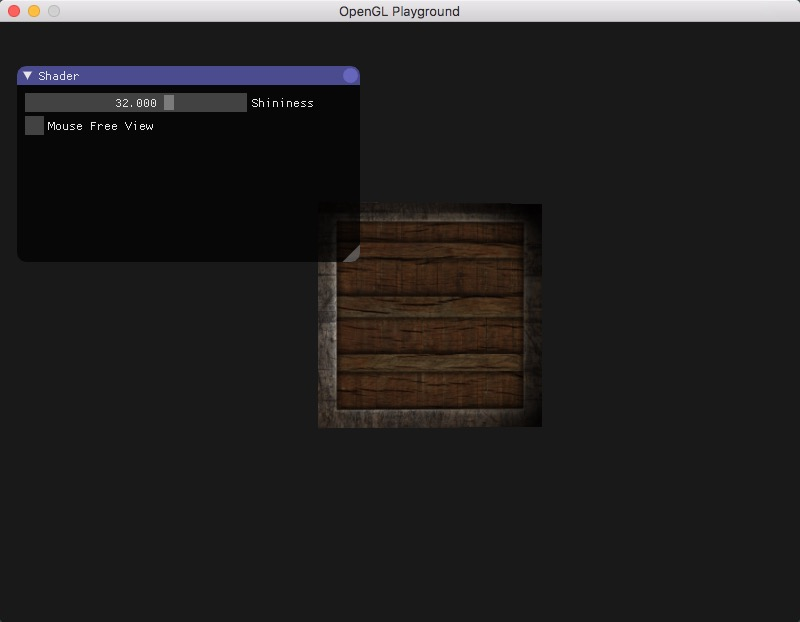
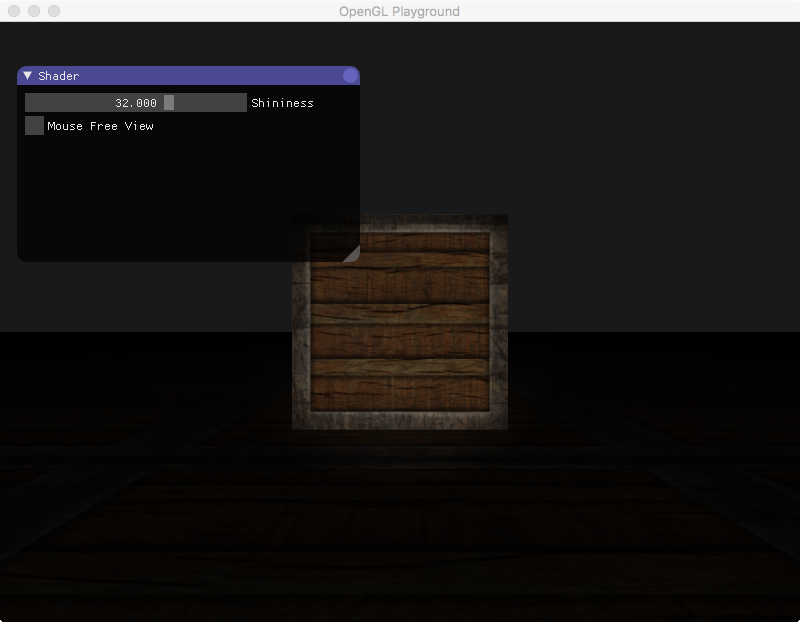
代码调整

diff --git a/Src/main.cpp b/Src/main.cpp
@@ -47,6 +47,10 @@ glm::vec3 lightPos(1.2f, 1.0f, 2.0f);
 GLfloat deltaTime = 0.0f; // Time between current frame and last frame
 GLfloat lastFrame = 0.0f; // Time of last frame
 
+// meshes
+unsigned int planeVAO;
+
+
 // The MAIN function, from here we start the application and run the game loop
 int main() {
   // Init GLFW
@@ -86,6 +90,7 @@ int main() {
   // Build and compile our shader program
   Shader lightingShader("lighting.vs", "lighting.frag");
   Shader lampShader("lamp.vs", "lamp.frag");
+
 
   // Set up vertex data (and buffer(s)) and attribute pointers
   GLfloat vertices[] = {
@@ -165,6 +170,35 @@ int main() {
   glEnableVertexAttribArray(0);
   glBindVertexArray(0);
 
+
+  // set up vertex data (and buffer(s)) and configure vertex attributes
+  // ------------------------------------------------------------------
+  float planeVertices[] = {
+    // positions            // normals         // texcoords
+    25.0f, -0.5f,  25.0f,  0.0f, 1.0f, 0.0f,  25.0f,  0.0f,
+    -25.0f, -0.5f,  25.0f,  0.0f, 1.0f, 0.0f,   0.0f,  0.0f,
+    -25.0f, -0.5f, -25.0f,  0.0f, 1.0f, 0.0f,   0.0f, 25.0f,
+
+    25.0f, -0.5f,  25.0f,  0.0f, 1.0f, 0.0f,  25.0f,  0.0f,
+    -25.0f, -0.5f, -25.0f,  0.0f, 1.0f, 0.0f,   0.0f, 25.0f,
+    25.0f, -0.5f, -25.0f,  0.0f, 1.0f, 0.0f,  25.0f, 25.0f
+  };
+
+  // plane VAO
+  unsigned int planeVBO;
+  glGenVertexArrays(1, &planeVAO);
+  glGenBuffers(1, &planeVBO);
+  glBindVertexArray(planeVAO);
+  glBindBuffer(GL_ARRAY_BUFFER, planeVBO);
+  glBufferData(GL_ARRAY_BUFFER, sizeof(planeVertices), planeVertices, GL_STATIC_DRAW);
+  glEnableVertexAttribArray(0);
+  glVertexAttribPointer(0, 3, GL_FLOAT, GL_FALSE, 8 * sizeof(float), (void*)0);
+  glEnableVertexAttribArray(1);
+  glVertexAttribPointer(1, 3, GL_FLOAT, GL_FALSE, 8 * sizeof(float), (void*)(3 * sizeof(float)));
+  glEnableVertexAttribArray(2);
+  glVertexAttribPointer(2, 2, GL_FLOAT, GL_FALSE, 8 * sizeof(float), (void*)(6 * sizeof(float)));
+  glBindVertexArray(0);
+
   // Load textures
   GLuint diffuseMap, specularMap, emissionMap;
   glGenTextures(1, &diffuseMap);
@@ -207,6 +241,12 @@ int main() {
               0);
   glUniform1i(glGetUniformLocation(lightingShader.Program, "material.specular"),
               1);
+
+  lampShader.Use();
+  glUniform1i(glGetUniformLocation(lampShader.Program, "texture1"),
+              1);
+  glUniform1i(glGetUniformLocation(lampShader.Program, "texture2"),
+              0);
 
 
   //Set Imgui
@@ -309,9 +349,13 @@ int main() {
     glActiveTexture(GL_TEXTURE1);
     glBindTexture(GL_TEXTURE_2D, specularMap);
 
+
+    // Draw floor
+    glm::mat4 model;
+   
+
     // Draw 10 containers with the same VAO and VBO information; only their
     // world space coordinates differ
-    glm::mat4 model;
     glBindVertexArray(containerVAO);
 
     int ii = 0;
@@ -321,9 +365,27 @@ int main() {
       GLfloat angle = 20.0f * ii++;
       model = glm::rotate(model, angle, glm::vec3(1.0f, 0.3f, 0.5f));
       glUniformMatrix4fv(modelLoc, 1, GL_FALSE, glm::value_ptr(model));
-
       glDrawArrays(GL_TRIANGLES, 0, 36);
     }
+
+
+    
+
+    //Draw the floor
+    lampShader.Use();
+    // Get the uniform locations
+    modelLoc = glGetUniformLocation(lampShader.Program, "model");
+    viewLoc = glGetUniformLocation(lampShader.Program, "view");
+    projLoc = glGetUniformLocation(lampShader.Program, "projection");
+
+    glUniformMatrix4fv(viewLoc, 1, GL_FALSE, glm::value_ptr(view));
+    glUniformMatrix4fv(projLoc, 1, GL_FALSE, glm::value_ptr(projection));
+
+    model = glm::mat4();
+    glUniformMatrix4fv(modelLoc, 1, GL_FALSE, glm::value_ptr(model));
+
+    glBindVertexArray(planeVAO);
+    glDrawArrays(GL_TRIANGLES, 0, 6);
 
     glBindVertexArray(0);
 

diff --git a/Src/imgui_impl_glfw_gl3.h b/Src/imgui_impl_glfw_gl3.h
@@ -1,25 +1,38 @@
 // ImGui GLFW binding with OpenGL3 + shaders
-// In this binding, ImTextureID is used to store an OpenGL 'GLuint' texture identifier. Read the FAQ about ImTextureID in imgui.cpp.
+// In this binding, ImTextureID is used to store an OpenGL 'GLuint' texture
+// identifier. Read the FAQ about ImTextureID in imgui.cpp.
 
-// You can copy and use unmodified imgui_impl_* files in your project. See main.cpp for an example of using this.
-// If you use this binding you'll need to call 4 functions: ImGui_ImplXXXX_Init(), ImGui_ImplXXXX_NewFrame(), ImGui::Render() and ImGui_ImplXXXX_Shutdown().
-// If you are new to ImGui, see examples/README.txt and documentation at the top of imgui.cpp.
+// You can copy and use unmodified imgui_impl_* files in your project. See
+// main.cpp for an example of using this.
+// If you use this binding you'll need to call 4 functions:
+// ImGui_ImplXXXX_Init(), ImGui_ImplXXXX_NewFrame(), ImGui::Render() and
+// ImGui_ImplXXXX_Shutdown().
+// If you are new to ImGui, see examples/README.txt and documentation at the top
+// of imgui.cpp.
 // https://github.com/ocornut/imgui
 
 struct GLFWwindow;
 
-IMGUI_API bool        ImGui_ImplGlfwGL3_Init(GLFWwindow* window, bool install_callbacks);
-IMGUI_API void        ImGui_ImplGlfwGL3_Shutdown();
-IMGUI_API void        ImGui_ImplGlfwGL3_NewFrame();
+IMGUI_API bool ImGui_ImplGlfwGL3_Init(GLFWwindow *window,
+                                      bool install_callbacks);
+IMGUI_API void ImGui_ImplGlfwGL3_Shutdown();
+IMGUI_API void ImGui_ImplGlfwGL3_NewFrame();
 
 // Use if you want to reset your rendering device without losing ImGui state.
-IMGUI_API void        ImGui_ImplGlfwGL3_InvalidateDeviceObjects();
-IMGUI_API bool        ImGui_ImplGlfwGL3_CreateDeviceObjects();
+IMGUI_API void ImGui_ImplGlfwGL3_InvalidateDeviceObjects();
+IMGUI_API bool ImGui_ImplGlfwGL3_CreateDeviceObjects();
 
-// GLFW callbacks (installed by default if you enable 'install_callbacks' during initialization)
+// GLFW callbacks (installed by default if you enable 'install_callbacks' during
+// initialization)
 // Provided here if you want to chain callbacks.
 // You can also handle inputs yourself and use those as a reference.
-IMGUI_API void        ImGui_ImplGlfwGL3_MouseButtonCallback(GLFWwindow* window, int button, int action, int mods);
-IMGUI_API void        ImGui_ImplGlfwGL3_ScrollCallback(GLFWwindow* window, double xoffset, double yoffset);
-IMGUI_API void        ImGui_ImplGlfwGL3_KeyCallback(GLFWwindow* window, int key, int scancode, int action, int mods);
-IMGUI_API void        ImGui_ImplGlfwGL3_CharCallback(GLFWwindow* window, unsigned int c);
+IMGUI_API void ImGui_ImplGlfwGL3_MouseButtonCallback(GLFWwindow *window,
+                                                     int button, int action,
+                                                     int mods);
+IMGUI_API void ImGui_ImplGlfwGL3_ScrollCallback(GLFWwindow *window,
+                                                double xoffset, double yoffset);
+IMGUI_API void ImGui_ImplGlfwGL3_KeyCallback(GLFWwindow *window, int key,
+                                             int scancode, int action,
+                                             int mods);
+IMGUI_API void ImGui_ImplGlfwGL3_CharCallback(GLFWwindow *window,
+                                              unsigned int c);
